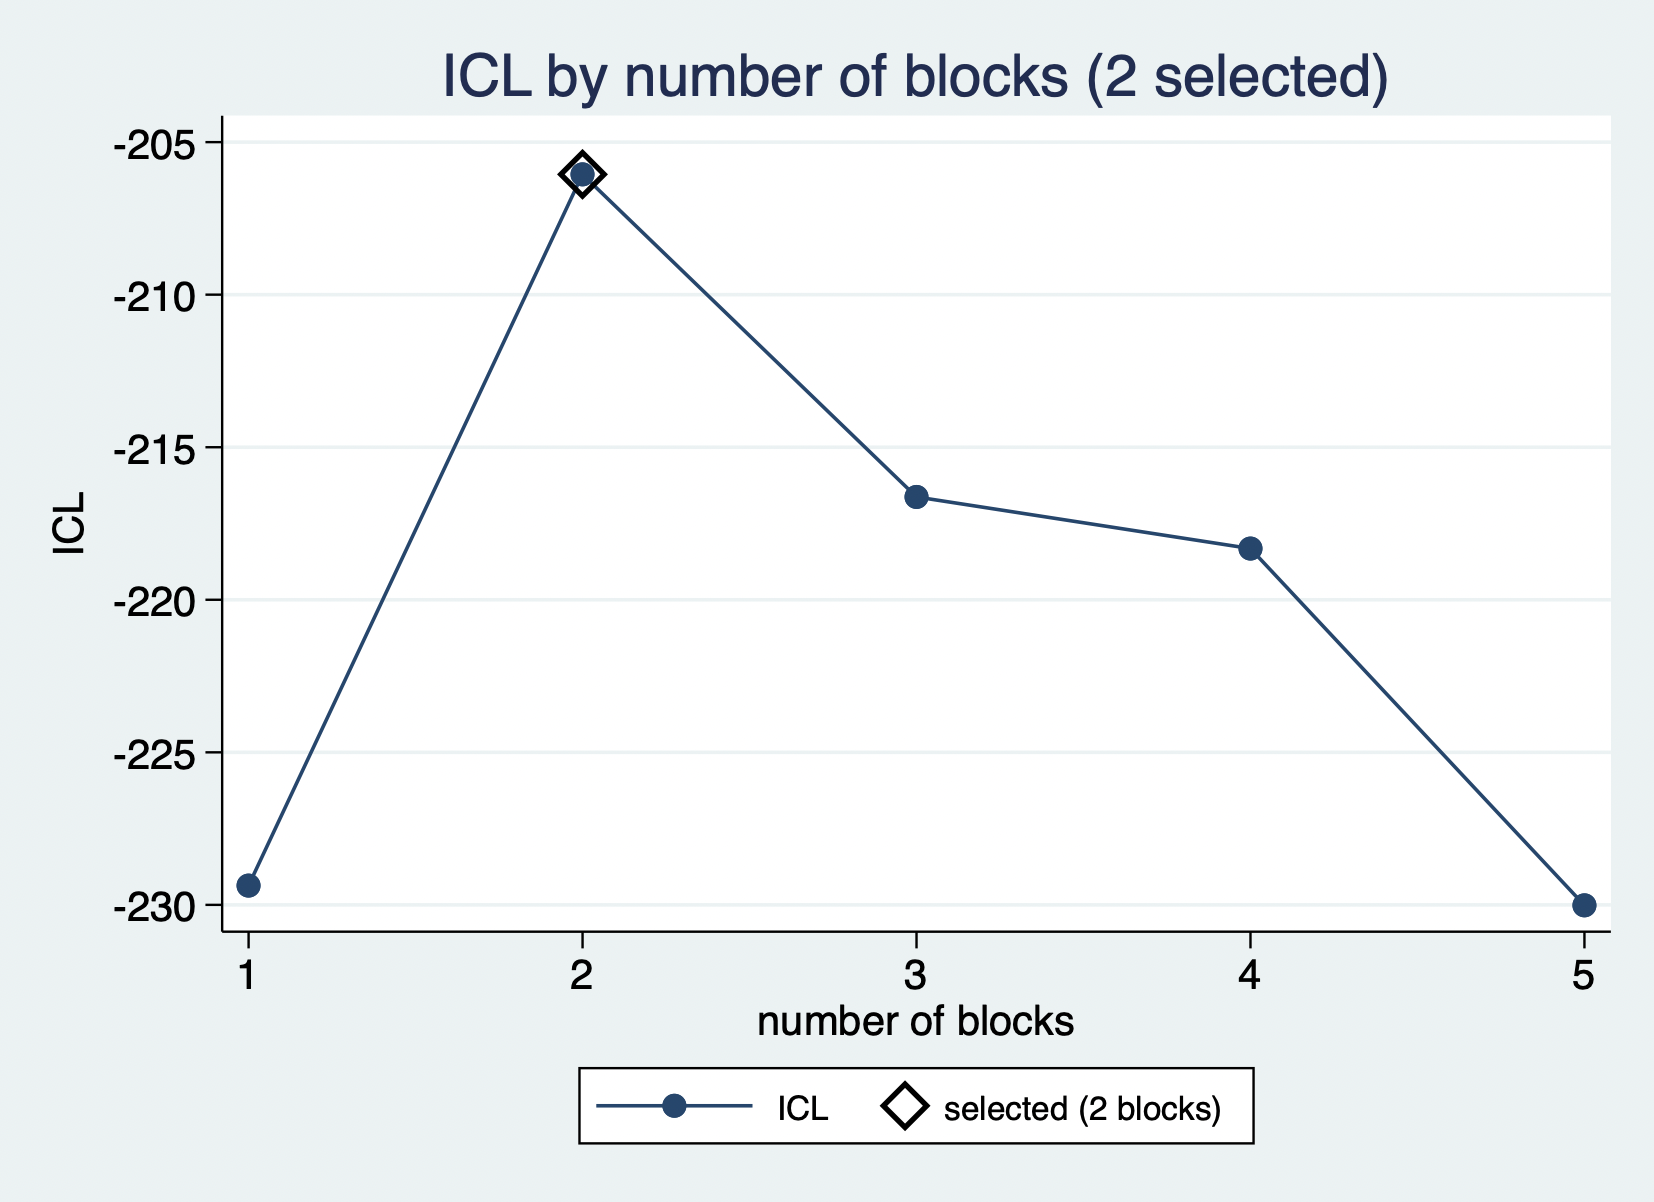
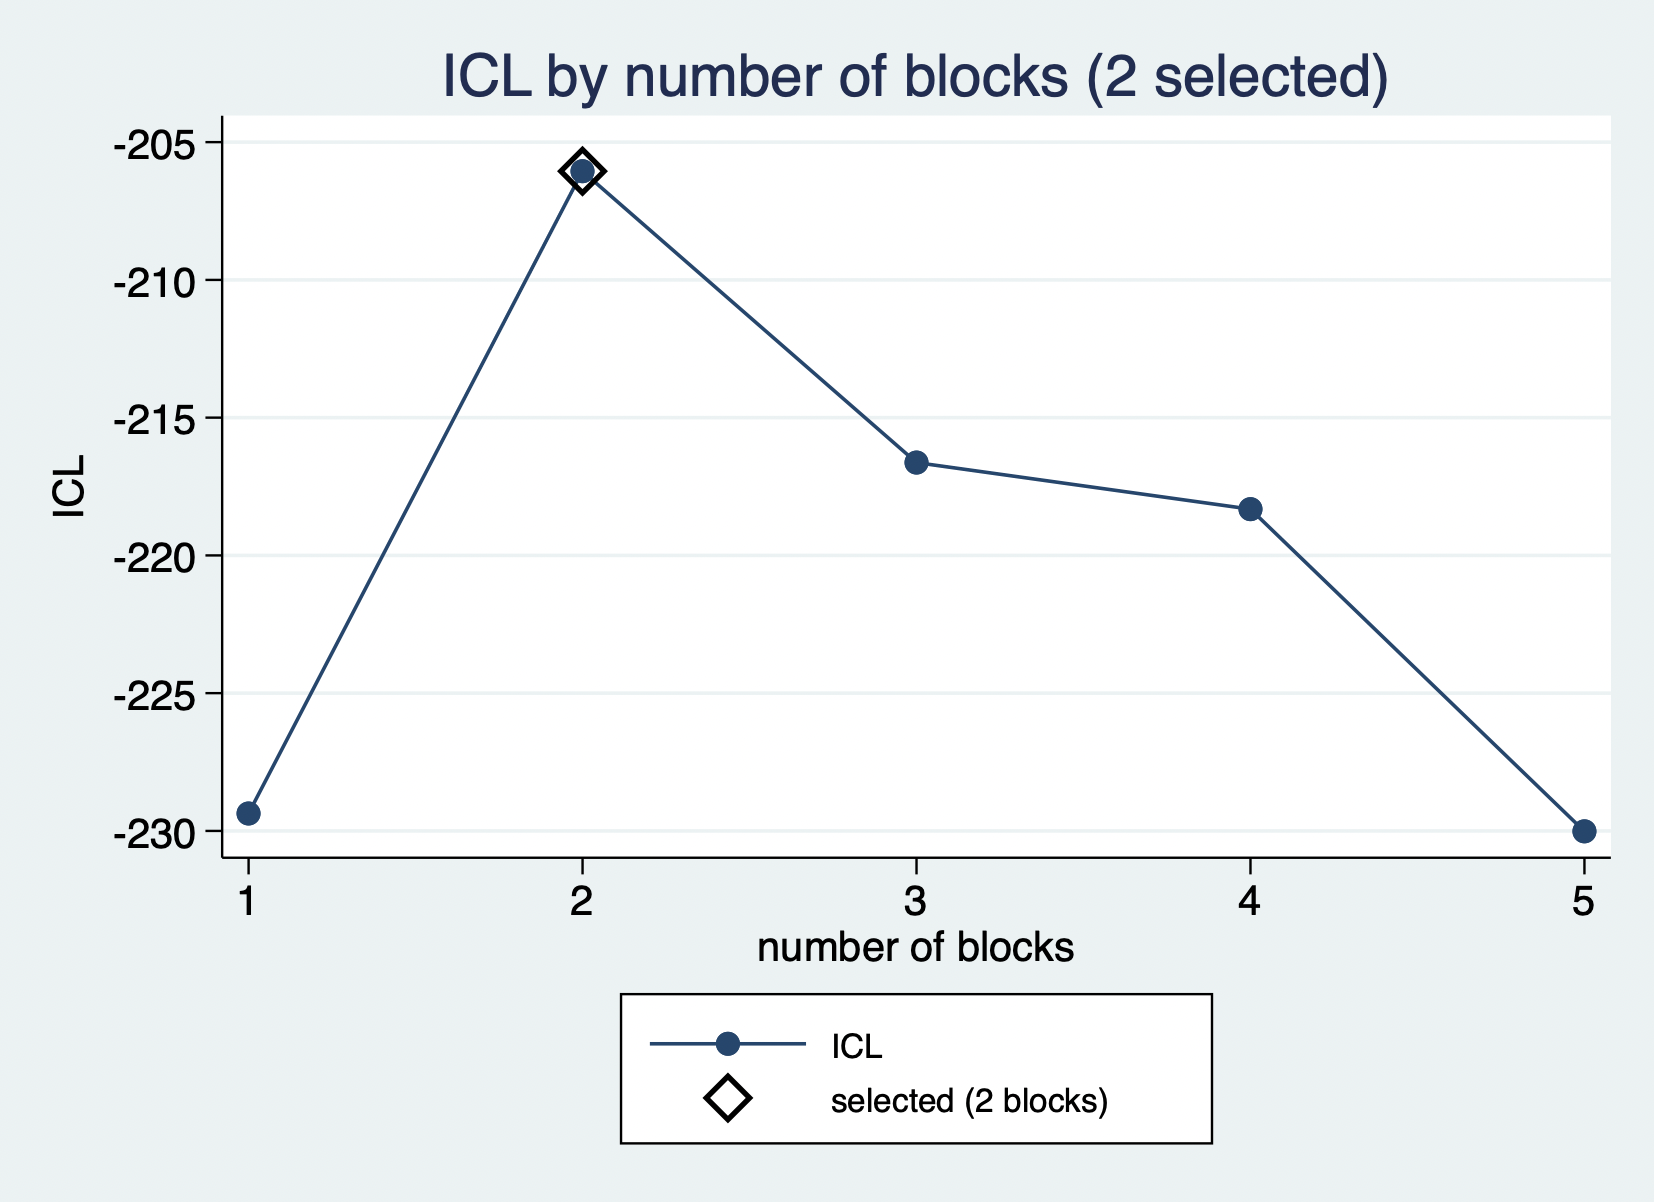
Website: nwsbm tutorial 1 block graph for the three-block fit; ICL legends and nwlsm monks labels regenerated

diff --git a/website/nwsbm/tutorial-1-first-sbm/index.md b/website/nwsbm/tutorial-1-first-sbm/index.md
@@ -98,7 +98,7 @@ core and a periphery and not two groups of friends: it is a statement about the 
 
 ## Looking at the blocks
 
-`nwsbmplot` draws pictures of the last fit. Every plot can be written to a file with `export()` (the format follows the extension: `.png`, `.pdf`, `.eps`); the pictures on this page were made that way.
+`nwsbmplot` draws pictures of the last fit (the block graph follows below, after the fit with three blocks). Every plot can be written to a file with `export()` (the format follows the extension: `.png`, `.pdf`, `.eps`); the pictures on this page were made that way.
 
 ```stata
 . nwsbmplot, type(matrix) shade export(nwsbm1_matrix.png)
@@ -108,14 +108,6 @@ core and a periphery and not two groups of friends: it is a statement about the 
 
 The blocked adjacency matrix draws every tie as a black square, with the members ordered by their block: the 29 members of block 1 first (top rows, left columns), the 5 members of block 2 last, and thin lines between the blocks. The option `shade` fills each block rectangle with a grey that follows the connectivity of that pair of blocks (four levels, relative to the largest entry of the connectivity matrix): the square of block 1 with block 1 (top left) is the lightest, the strips of block 2 with block 1 are mid grey and the small square of block 2 with block 2 (bottom right) is the darkest. The top-left square is mostly empty, with ties scattered here and there. The rows and columns of block 2 (the bottom strip and the right strip) are
 crowded with squares, and so is the small square where block 2 meets block 2 (bottom right). This is the pattern of the connectivity matrix above: a few ties inside the large block, many to and within the small one.
-
-```stata
-. nwsbmplot, type(blocks) export(nwsbm1_blocks.png)
-```
-
-![Block graph of the karate club](nwsbm1_blocks.png)
-
-The block graph draws each block as a circle whose size follows the number of members (the large circle is block 1, the small one block 2) and the connectivity between the blocks as a line whose width follows the tie probability relative to the largest entry of the connectivity matrix. Here there are two circles and one line, the 0.37 between the blocks. Ties inside a block are not drawn, which is why the dense small block does not show its 0.49.
 
 ```stata
 . nwsbmplot, type(icl) export(nwsbm1_icl.png)
@@ -194,6 +186,15 @@ b3  0.0017  0.4740  0.0385
 
 With `blocks(3)` the model splits the large block into two parts (13 and 16 actors) that are tied to the small block with probabilities of 0.25 and 0.47, and the ICL of this fit (-216.6) is lower than that of two blocks (-206.1), so the criterion does not support the third block.
 The three blocks do not follow the two factions either (see the cross-tabulation in the log).
+
+The block graph needs more than two blocks to show a structure, so it is drawn for the three-block fit. It draws each block as a circle whose size follows the number of members (blocks 1 and 3 have 13 and 16 members, the small block 2 has 5) and the connectivity between the blocks as a line whose width follows the tie probability relative to the largest entry of the connectivity matrix. Block 2 is tied to block 3 with a thick line (0.47) and to block 1 with a thinner one (0.25); between blocks 1 and 3 there is no visible line, because their tie probability is 0.002. The small dense block is the hub between the two large ones. Ties inside a block are not drawn, which is why the dense small block does not show its 0.49.
+
+```stata
+. nwsbmplot, type(blocks) export(nwsbm1_blocks.png)
+```
+
+![Block graph of the karate club, three blocks](nwsbm1_blocks.png)
+
 
 ## What to remember
 

diff --git a/website/nwlsm/tutorial-2-bic-clusters/index.md b/website/nwlsm/tutorial-2-bic-clusters/index.md
@@ -113,7 +113,7 @@ To see the clusters, draw the monks in the latent space with `nwlsmplot`; the op
 
 ![Sampson's monks in the latent space, coloured by cluster](monks_clusters.png)
 
-The three groups lie apart: seven monks in the lower left, seven on the right and a small group of four at the top. Ties run mostly inside each group, and the few ties between groups run through the space between them. The small group at the top is the faction of the outcasts, and one of its four monks lies between it and the rest. Only distances count on this map: the axes can be turned or flipped without changing the model. Both axes have the same scale, so distances can be read from the picture (`noequal` switches this off).
+The three groups lie apart: seven monks in the lower left, seven on the right and a small group of four at the top. Ties run mostly inside each group, and the few ties between groups run through the space between them. The small group at the top is the faction of the outcasts, and one of its four monks lies between it and the rest. Only distances count on this map: the axes can be turned or flipped without changing the model. Both axes have the same scale, so distances can be read from the picture (`noequal` switches this off). The labels are placed automatically (`labposition(auto)`, the default): each name goes to the side of its marker where the fewest other markers and names are in the way; `labposition(#)` fixes a clock position for all.
 
 The network is directed, so the ties are drawn as arrows from the sender to the receiver; this is the default for a directed network, and `noarrows` draws plain lines instead.
 
